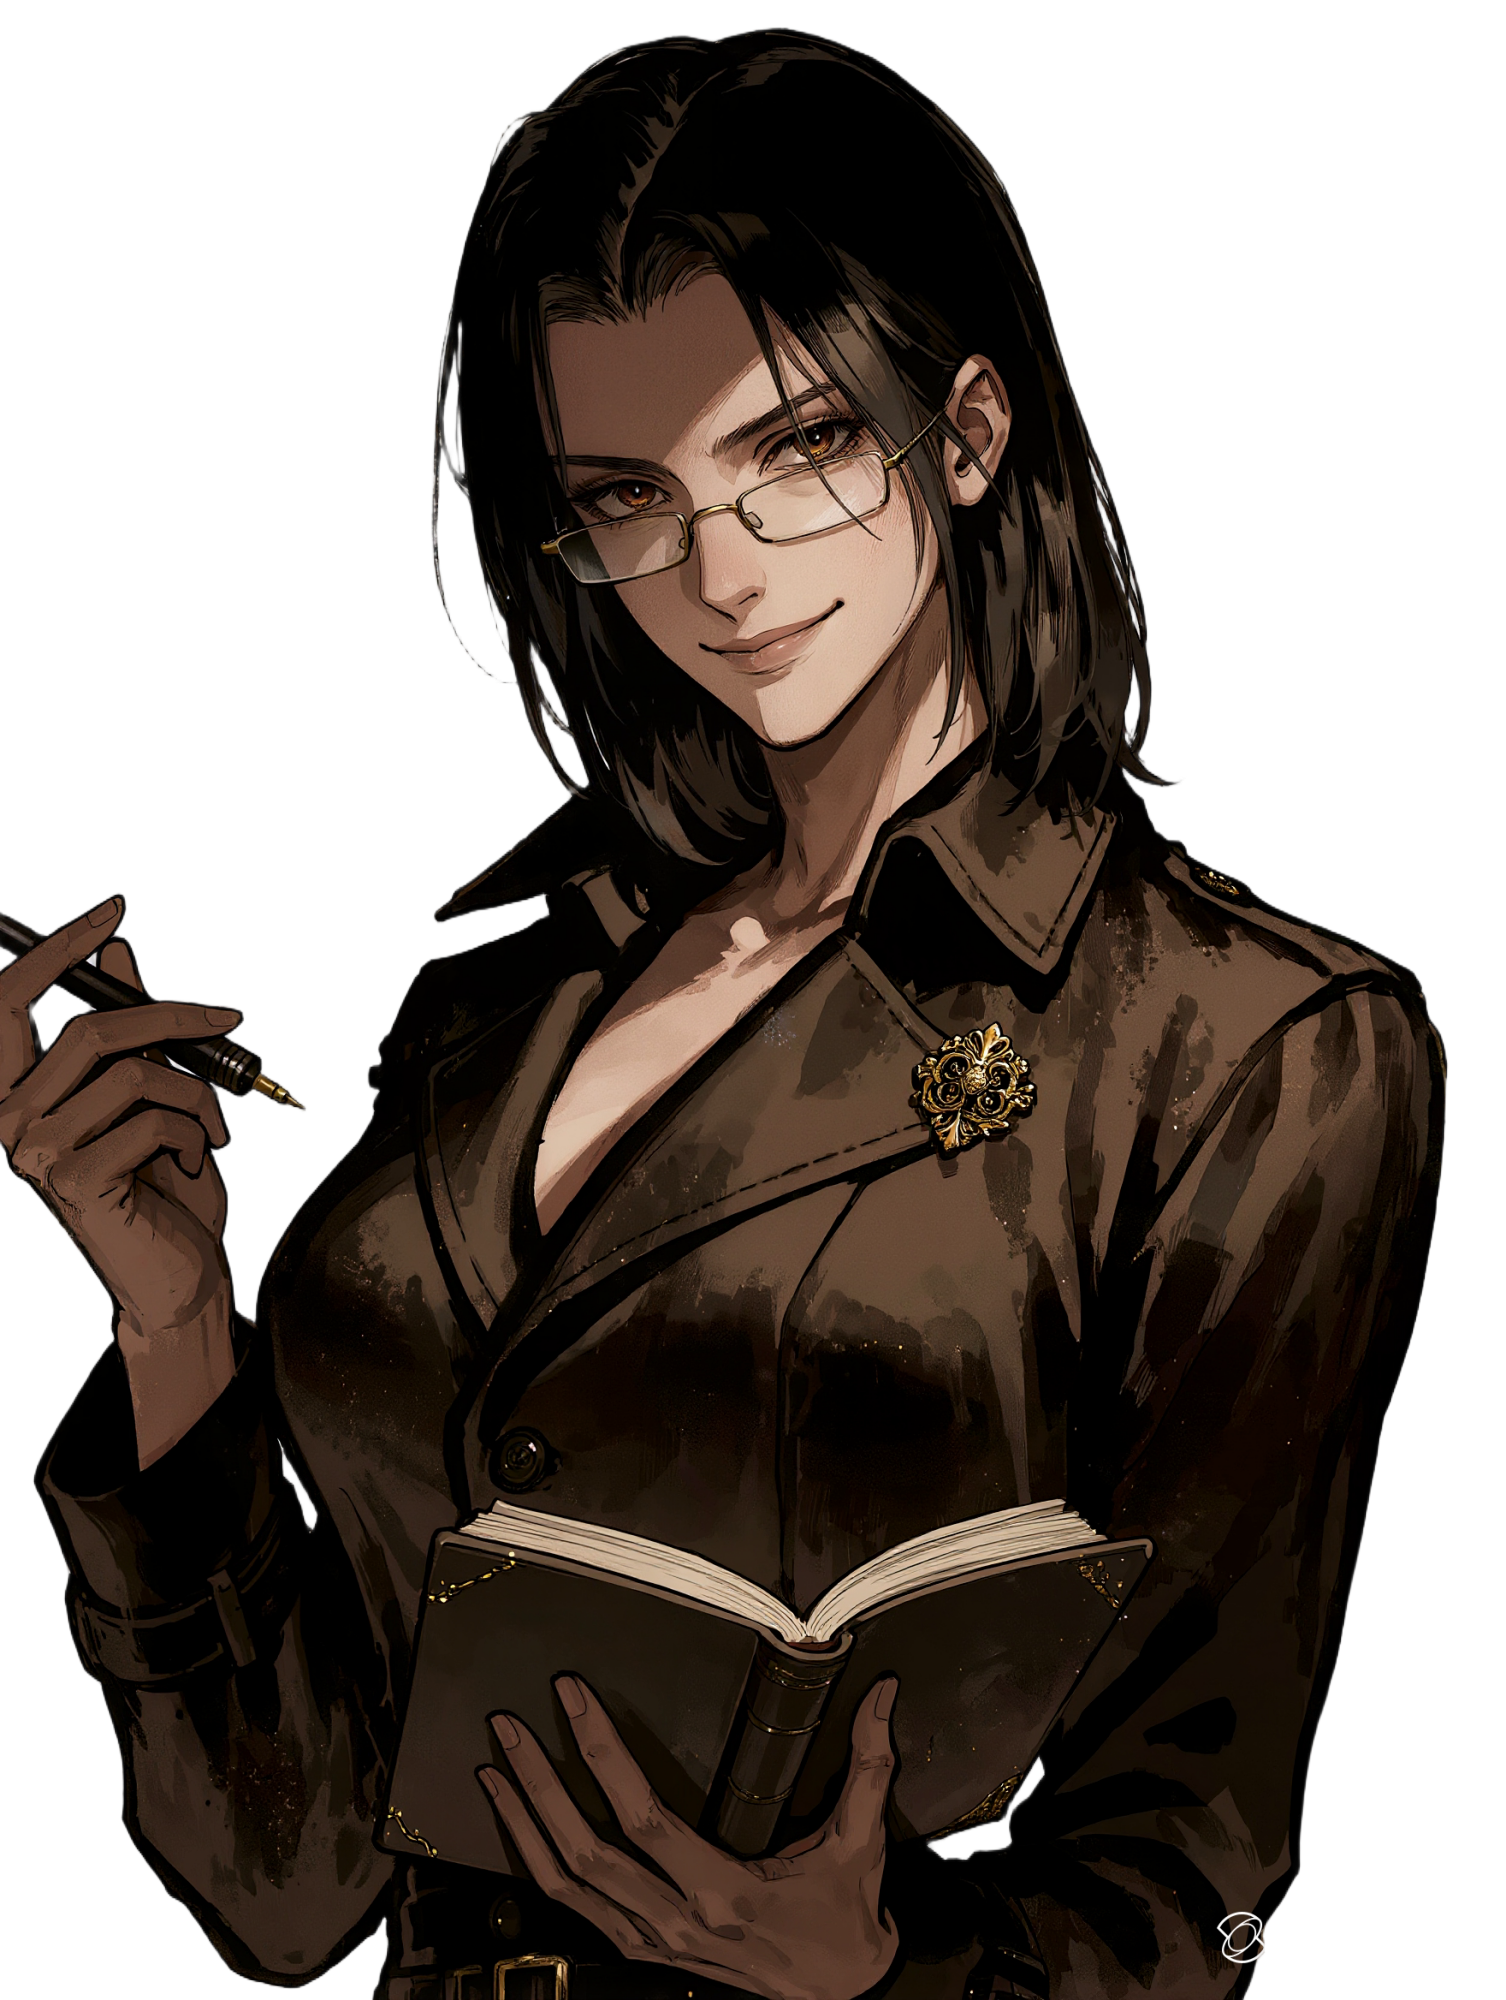
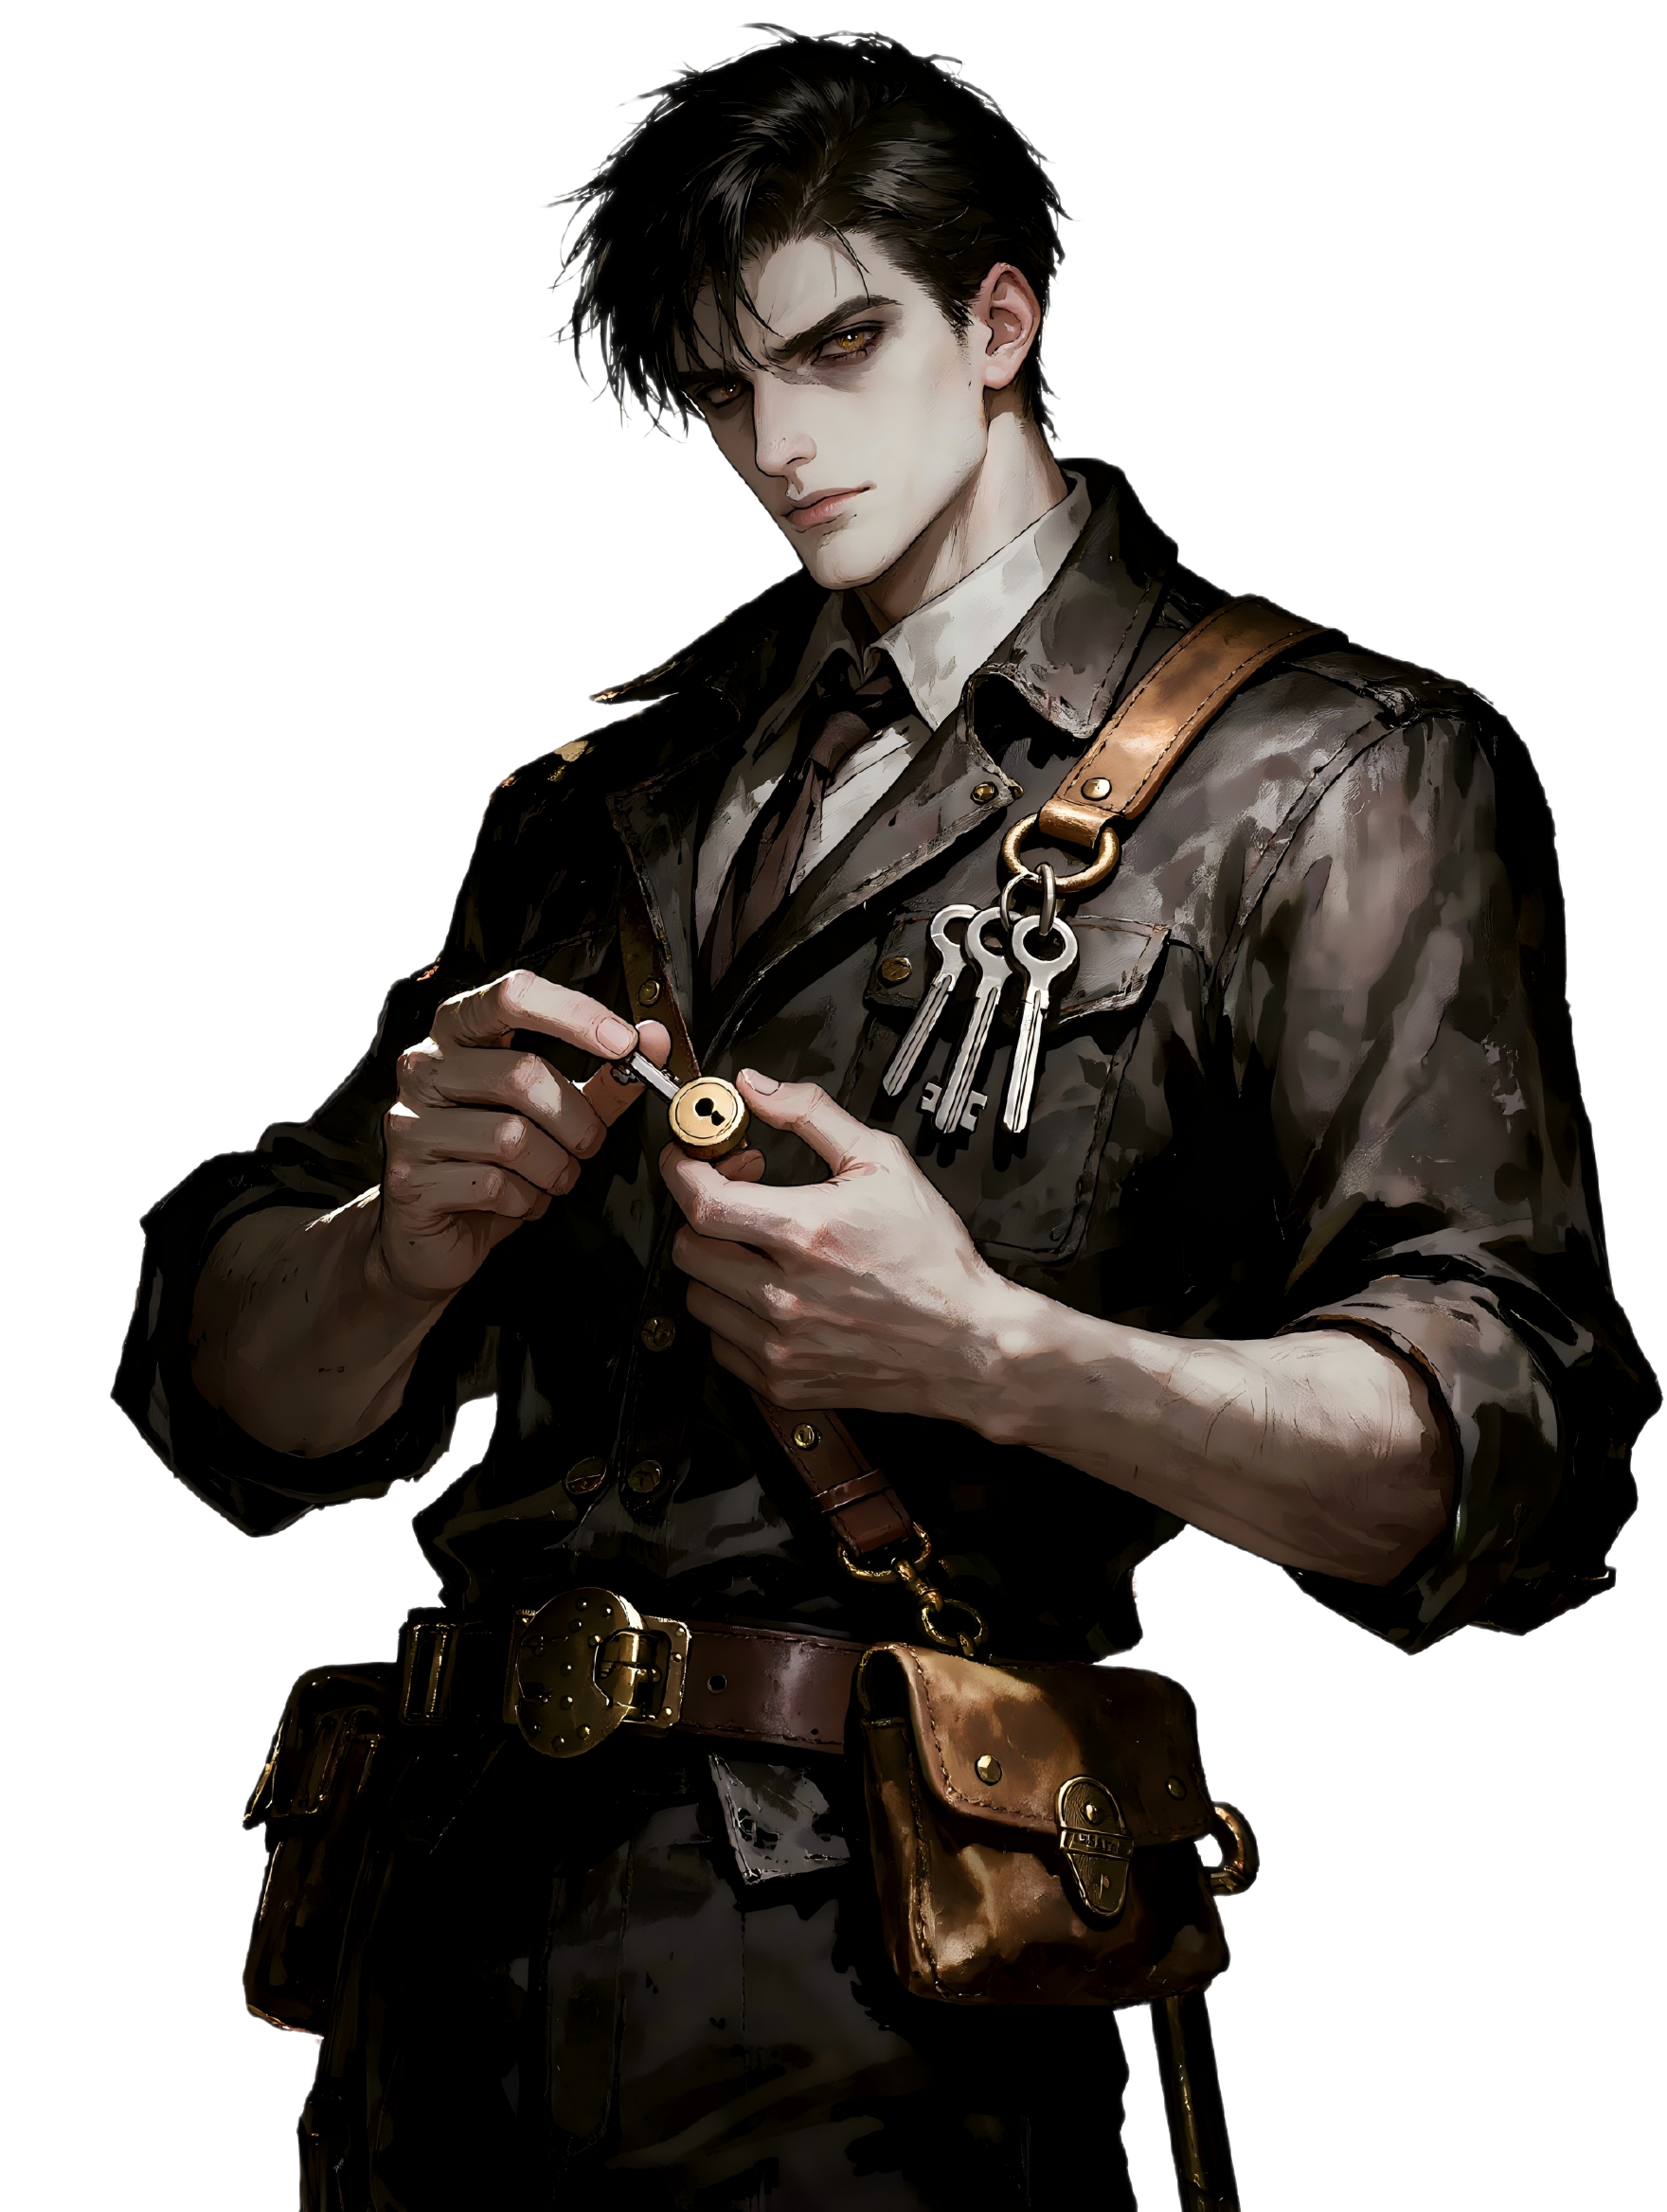
增加了4个角色立绘

diff --git a/web/src/constants.ts b/web/src/constants.ts
@@ -2,4 +2,4 @@
  * EvoMap Murder Game - API Constants
  */
 
-export const API_URL = process.env.REACT_APP_API_URL || "http://localhost:10001";
+export const API_URL = process.env.REACT_APP_API_URL || "http://localhost:8000";